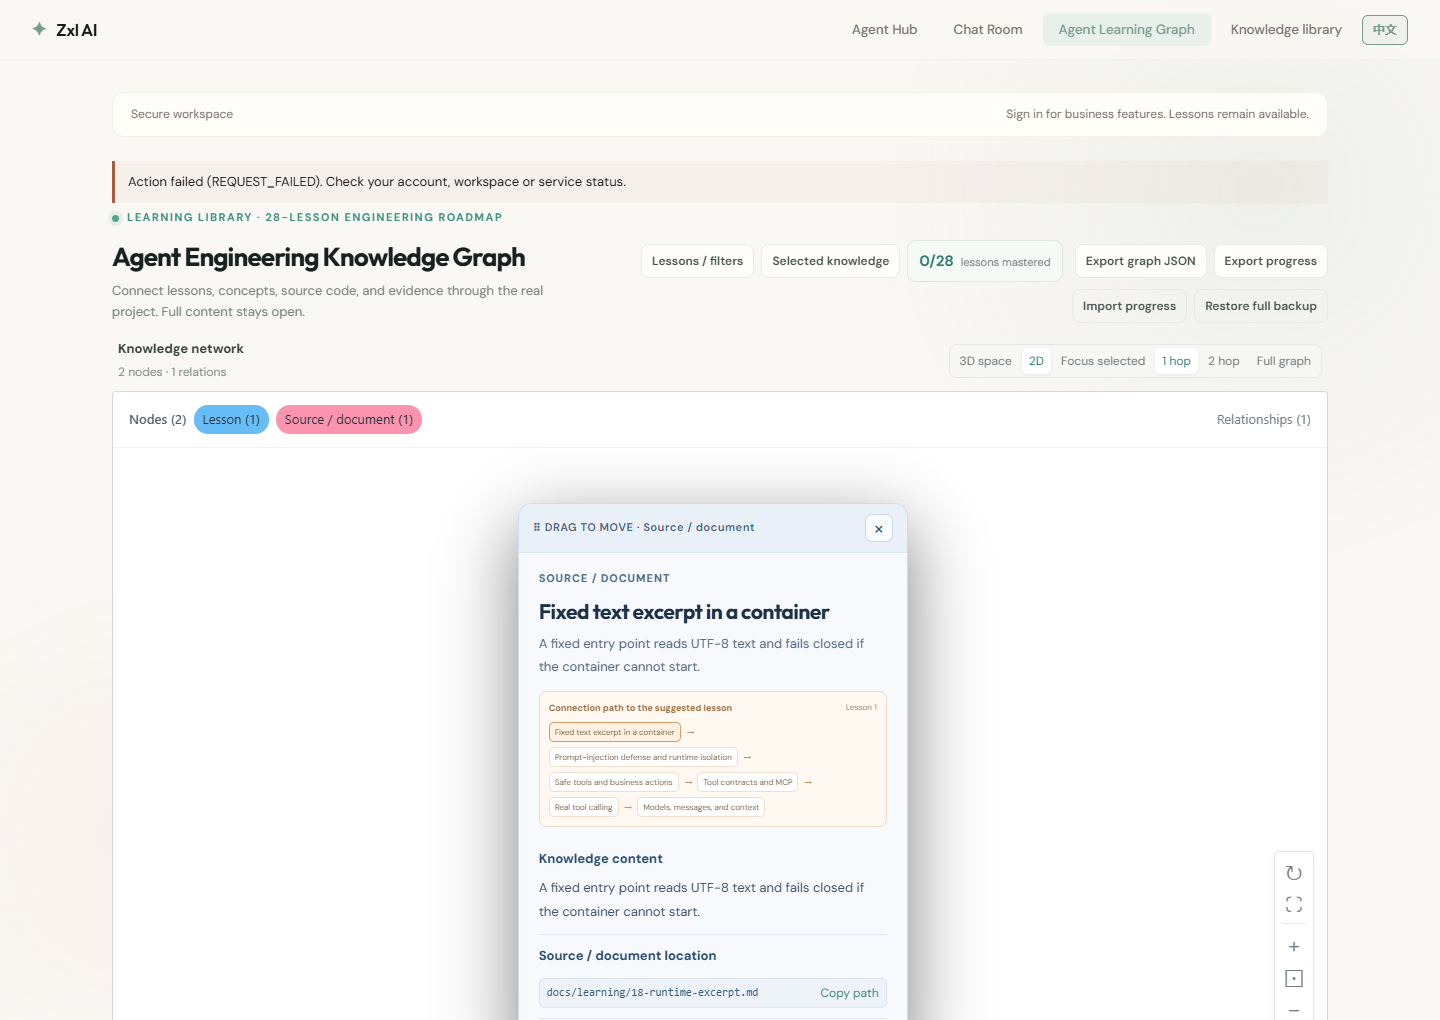
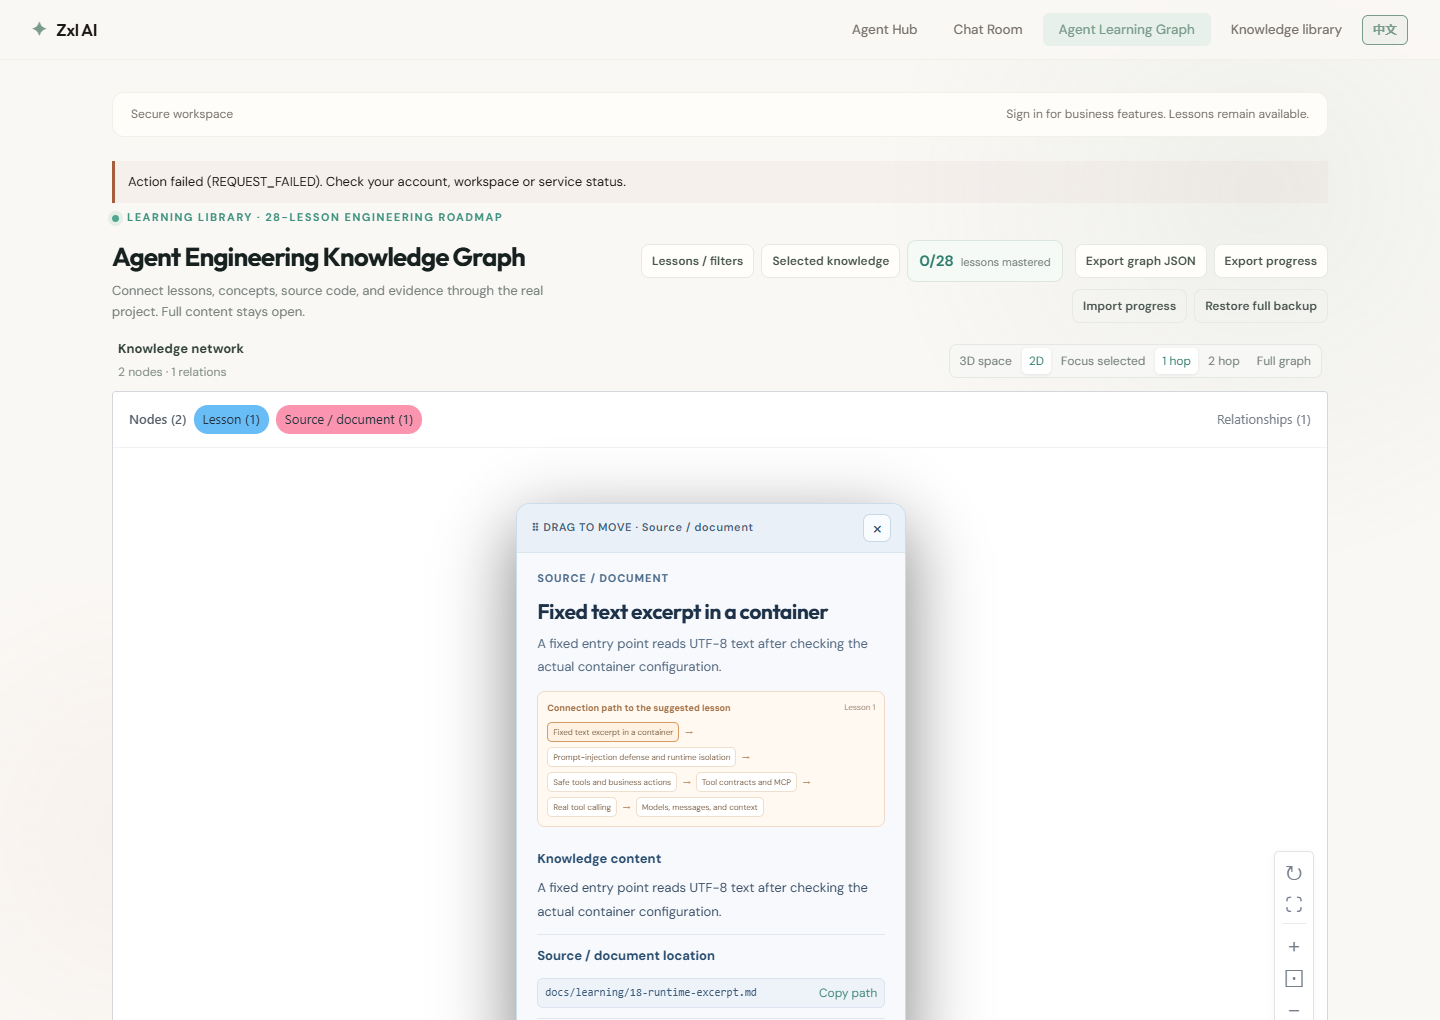
docs(learning): show container configuration verification

diff --git a/docs/learning/18-runtime-excerpt.md b/docs/learning/18-runtime-excerpt.md
@@ -17,4 +17,6 @@ docker build -t zxl-lesson18-excerpt:local scripts/lesson18-runtime
 
 四项单测覆盖 UTF-8 输入和限额、启动参数和超时清理、镜像缺失、清理失败时不返回摘录。Docker 调用相关单测使用替身。构建文件当前使用 `python:3.12-alpine` 标签，首次成功构建后还需记录基础镜像摘要。
 
+启动前读取 Docker 实际生成的容器配置，核对镜像 ID、固定入口、无挂载、网络模式、用户、权限和资源配额。配置不一致时清理容器并拒绝执行。新增第五项单测，验证网络模式偏差和意外挂载均无法启动 worker。本机尚未取得真实容器的 inspect 结果。
+
 [图谱验收截图](../images/lesson18-runtime-excerpt-2026-11-13/README.md)
